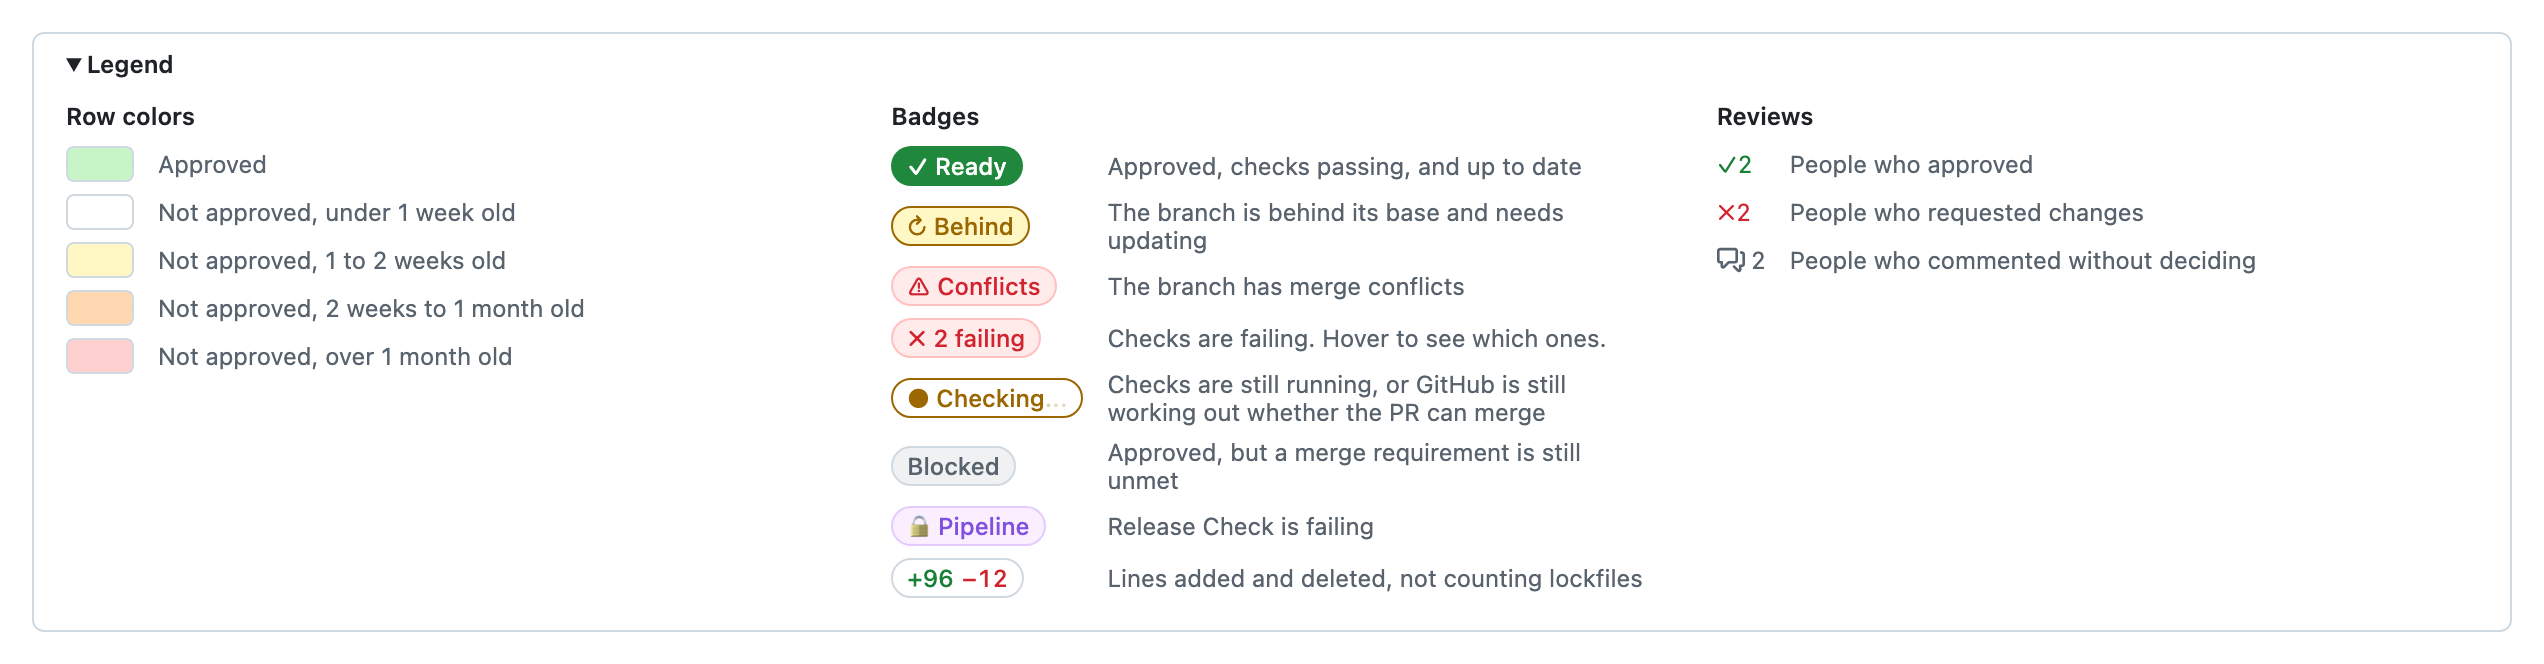
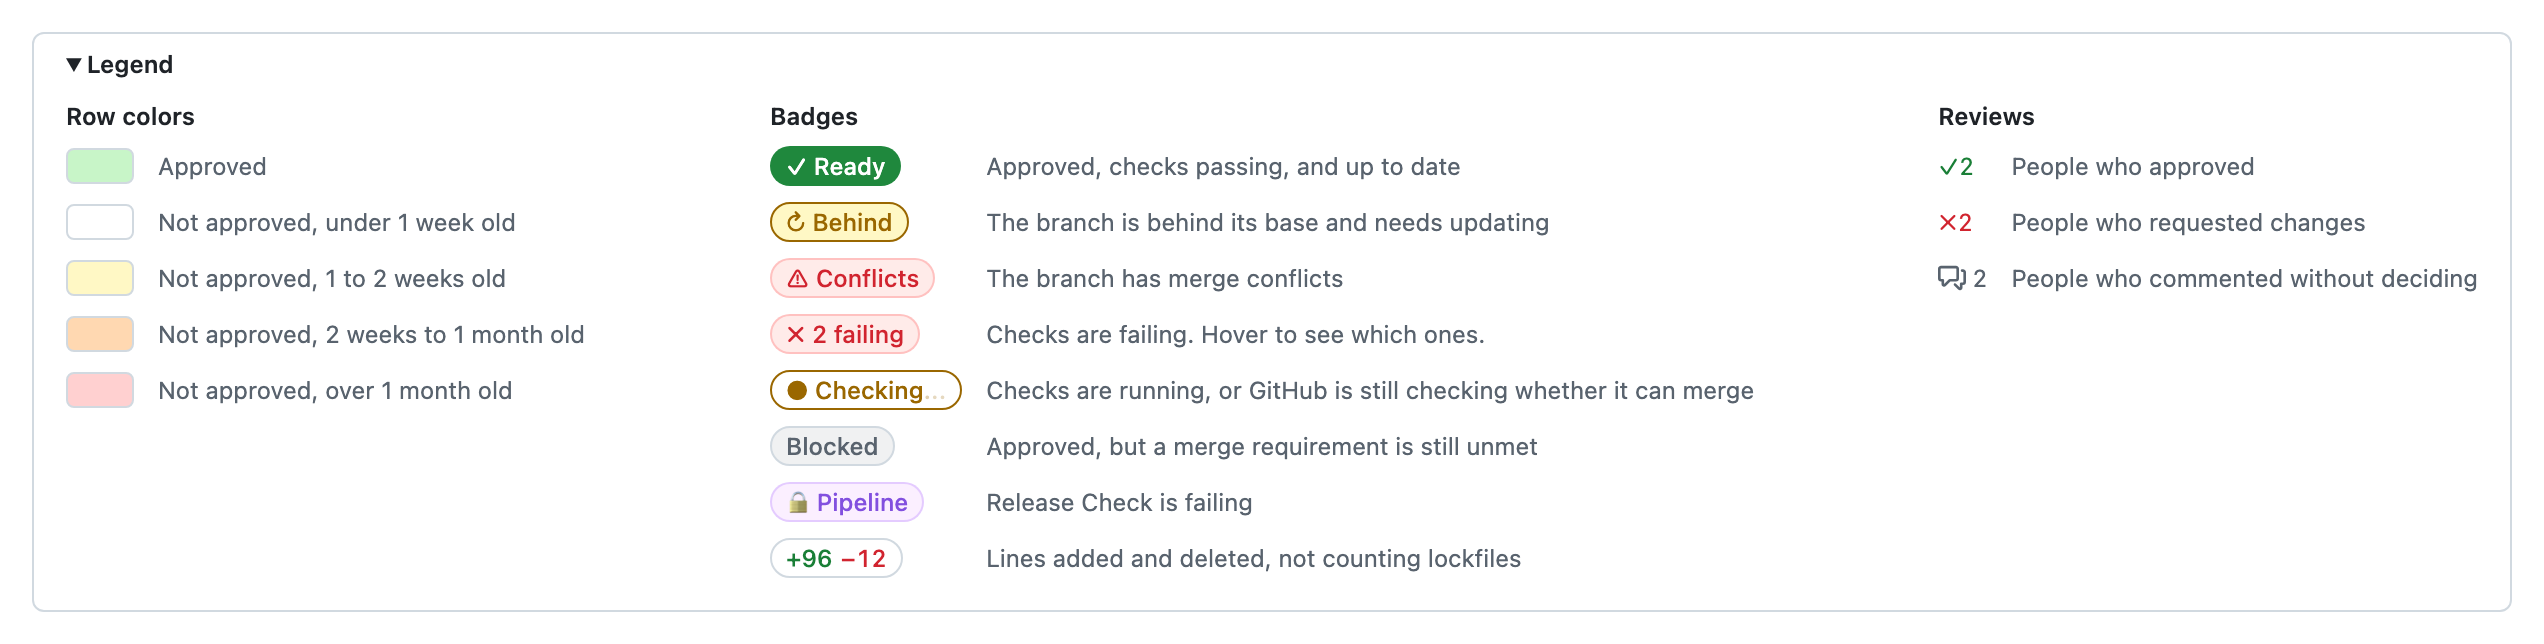
Tidied legend spacing and bumped to 1.1.1
Legend columns now size to their content, and each badge, swatch, and review count lines up with the first line of its description. The Checking description is shorter, and the README table, release notes, demo, and legend screenshot match.

diff --git a/github-pr-list-status.user.js b/github-pr-list-status.user.js
@@ -2,7 +2,7 @@
 // @name        GitHub PR List Status
 // @namespace   https://github.com/aseniah
 // @description Colors PRs by age and approval, and adds merge state and line count badges to the pull requests list
-// @version     1.1
+// @version     1.1.1
 // @license     MIT
 // @updateURL   https://raw.githubusercontent.com/aseniah/github-pr-list-status/main/github-pr-list-status.user.js
 // @downloadURL https://raw.githubusercontent.com/aseniah/github-pr-list-status/main/github-pr-list-status.user.js
@@ -110,11 +110,12 @@
     .prb-review-counts svg { width: 14px; height: 14px; fill: currentColor; }
     .prb-legend { margin-top: 16px; border: 1px solid var(--borderColor-default, #d1d9e0); border-radius: 6px; font-size: 12px; color: var(--fgColor-muted, #59636e); }
     .prb-legend > summary { cursor: pointer; padding: 8px 16px; font-weight: 600; color: var(--fgColor-default, #1f2328); }
-    .prb-legend-body { display: grid; grid-template-columns: repeat(auto-fit, minmax(260px, 1fr)); gap: 16px 32px; padding: 4px 16px 16px; }
+    .prb-legend-body { display: flex; flex-wrap: wrap; justify-content: space-between; gap: 16px 48px; padding: 4px 16px 16px; }
+    .prb-legend-body > div { flex: 0 1 auto; min-width: 260px; }
     .prb-legend h4 { margin: 0 0 8px; font-size: 12px; font-weight: 600; color: var(--fgColor-default, #1f2328); }
-    .prb-legend dl { display: grid; grid-template-columns: max-content 1fr; gap: 6px 12px; align-items: center; margin: 0; }
-    .prb-legend dt { display: flex; }
-    .prb-legend dd { margin: 0; }
+    .prb-legend dl { display: grid; grid-template-columns: max-content 1fr; gap: 8px 12px; align-items: start; margin: 0; }
+    .prb-legend dt { display: flex; align-items: center; min-height: 20px; }
+    .prb-legend dd { margin: 0; line-height: 20px; }
     .prb-legend-swatch { width: 32px; height: 16px; border-radius: 4px; border: 1px solid var(--borderColor-default, #d1d9e0); }
     .prb-legend .prb-review-counts { position: static; }
   `;
@@ -592,7 +593,7 @@
       ],
       [
         checkingPill(),
-        "Checks are still running, or GitHub is still working out whether the PR can merge",
+        "Checks are running, or GitHub is still checking whether it can merge",
       ],
       [
         pill("prb-blocked", "Blocked"),

diff --git a/docs/demo.html b/docs/demo.html
@@ -127,11 +127,12 @@
   .prb-review-counts svg { width: 14px; height: 14px; fill: currentColor; }
   .prb-legend { margin-top: 16px; border: 1px solid var(--borderColor-default, #d1d9e0); border-radius: 6px; font-size: 12px; color: var(--fgColor-muted, #59636e); }
   .prb-legend > summary { cursor: pointer; padding: 8px 16px; font-weight: 600; color: var(--fgColor-default, #1f2328); }
-  .prb-legend-body { display: grid; grid-template-columns: repeat(auto-fit, minmax(260px, 1fr)); gap: 16px 32px; padding: 4px 16px 16px; }
+  .prb-legend-body { display: flex; flex-wrap: wrap; justify-content: space-between; gap: 16px 48px; padding: 4px 16px 16px; }
+  .prb-legend-body > div { flex: 0 1 auto; min-width: 260px; }
   .prb-legend h4 { margin: 0 0 8px; font-size: 12px; font-weight: 600; color: var(--fgColor-default, #1f2328); }
-  .prb-legend dl { display: grid; grid-template-columns: max-content 1fr; gap: 6px 12px; align-items: center; margin: 0; }
-  .prb-legend dt { display: flex; }
-  .prb-legend dd { margin: 0; }
+  .prb-legend dl { display: grid; grid-template-columns: max-content 1fr; gap: 8px 12px; align-items: start; margin: 0; }
+  .prb-legend dt { display: flex; align-items: center; min-height: 20px; }
+  .prb-legend dd { margin: 0; line-height: 20px; }
   .prb-legend-swatch { width: 32px; height: 16px; border-radius: 4px; border: 1px solid var(--borderColor-default, #d1d9e0); }
   .prb-legend .prb-review-counts { position: static; }
 </style>
@@ -254,7 +255,7 @@
         [badge('behind'), 'The branch is behind its base and needs updating'],
         [badge('conflicts'), 'The branch has merge conflicts'],
         [badge('failing2'), 'Checks are failing. Hover to see which ones.'],
-        [badge('checking'), 'Checks are still running, or GitHub is still working out whether the PR can merge'],
+        [badge('checking'), 'Checks are running, or GitHub is still checking whether it can merge'],
         [badge('blocked'), 'Approved, but a merge requirement is still unmet'],
         [badge('pipeline'), 'Release Check is failing'],
         ['<span class="prb prb-size"><span class="add">+96</span> <span class="del">−12</span></span>', 'Lines added and deleted, not counting lockfiles'],

diff --git a/README.md b/README.md
@@ -26,7 +26,7 @@ Works on GitHub's global pull request list at `github.com/pulls` (Authored by me
 | ↻ Behind | The branch is behind its base and needs updating |
 | ⚠ Conflicts | The branch has merge conflicts |
 | ✗ 2 failing | Checks are failing. Hover to see which ones. |
-| ● Checking… | Checks are still running, or GitHub is still working out whether the PR can merge |
+| ● Checking… | Checks are running, or GitHub is still checking whether it can merge |
 | Blocked | Approved, but a merge requirement is still unmet |
 | 🔒 Pipeline | A deploy gate check is failing (see [Configuration](#configuration)) |
 

diff --git a/RELEASE_NOTES.md b/RELEASE_NOTES.md
@@ -1,5 +1,9 @@
 # Release Notes
 
+## 1.1.1
+
+- **Tidier legend.** Each legend column now sizes to its content, so descriptions stay on one line at full width. Badges and swatches line up with the first line of their description, keeping spacing even when text does wrap. The Checking description is also shorter.
+
 ## 1.1
 
 - **Legend.** A collapsible legend at the bottom of the pull request list explains each row color, including uncolored rows, along with every badge and review count.
